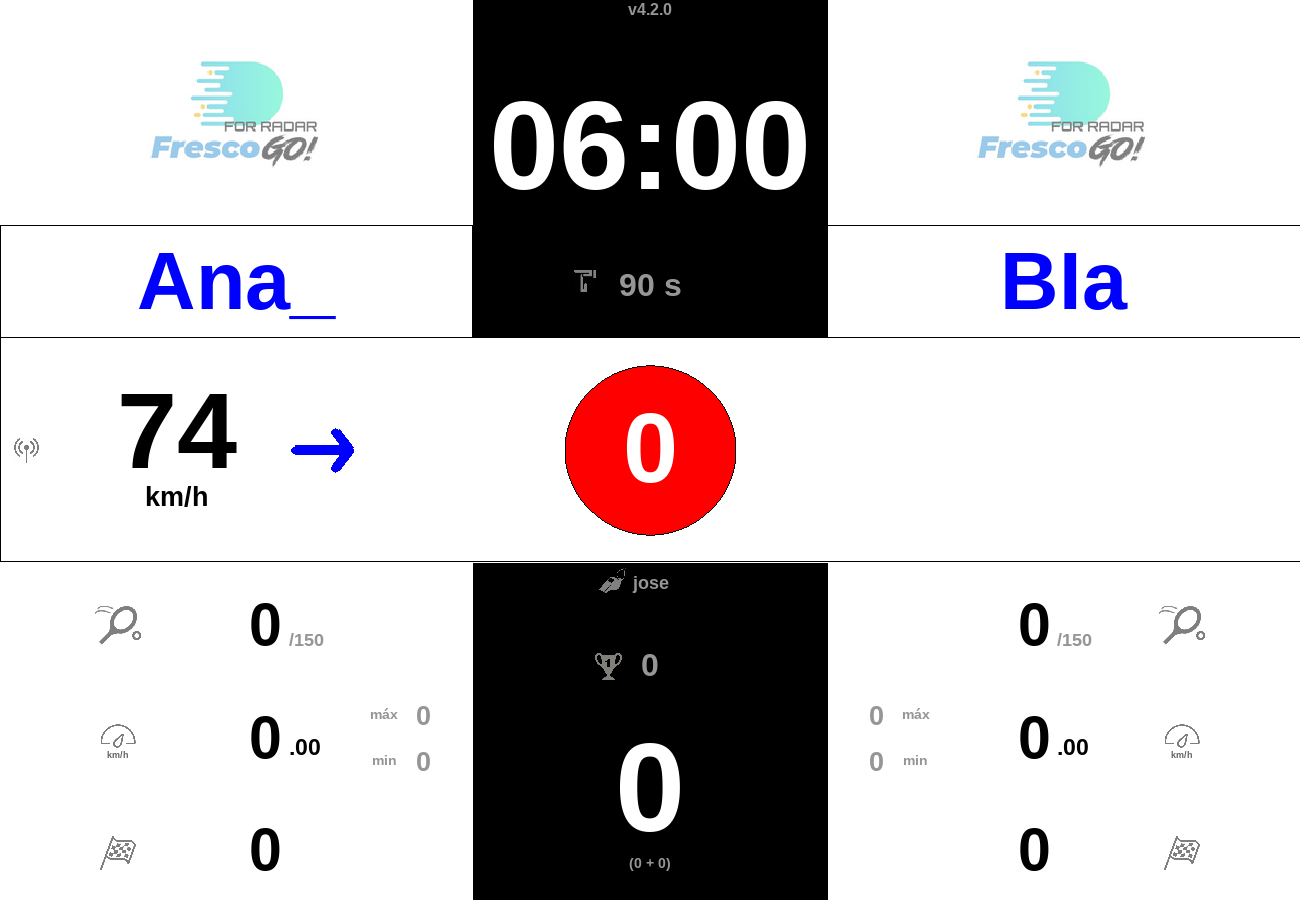
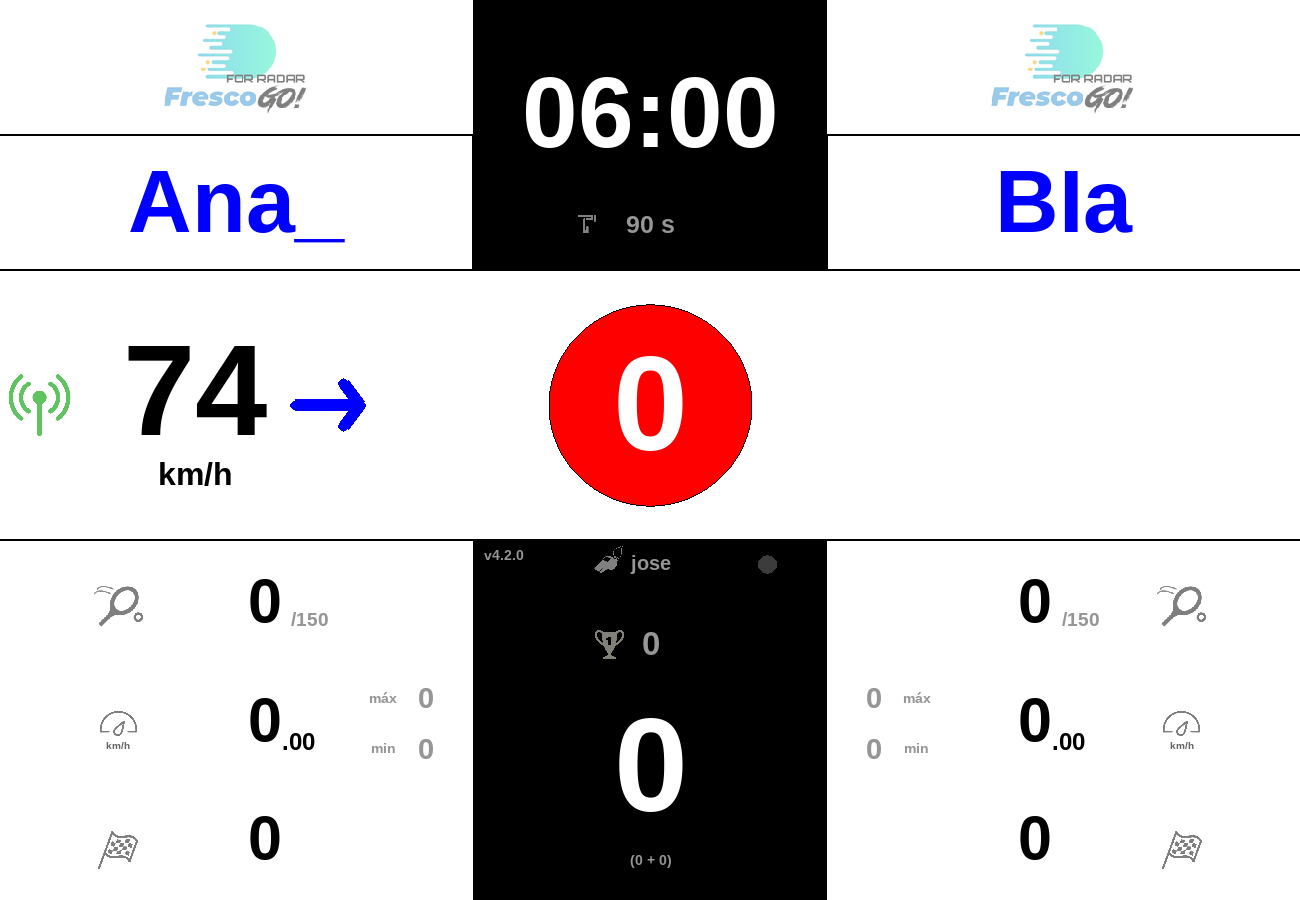
tst: the references of the screens with the panels (#47)
The oracle, the score and the flow pass with no change.

Claude-Session: https://claude.ai/code/session_011eECoitGg7fJwfZh8JDNnR

diff --git a/.claude/plans/TODO.md b/.claude/plans/TODO.md
@@ -59,7 +59,7 @@ reused (rule of 2026-11-18). The older identifiers (`A.5`, `B.11`, `C.3`,
 | #44 | The pre-game: before the first serve of a presentation or a warm-up, "PRÉ-JOGO" in the middle, and a red radar blinking at both sides with no radar; only there the names are typed, and CTRL-1/2/0, CTRL-I, CTRL-A need not be held | done on 2026-11-27 (author: "modo de configuracao", "CONF -> PRÉ-JOGO"); all the tests pass; the screens have new references | the red radar was drawn at x=0 and 1 (`loop x in [...]` gives the indices: `loop _, x in`) |  |
 | #45 | The hits by the arrows again, with no radar: a reader `Leitor.Teclado`, beside `Leitor.Radar`; a hit is emitted at the next one, with its time and the speed from `manual.distancia` (750) and `manual.maxima` (85); the last one of a sequence is kept with no speed. `:golpe` carries its time `t` | done on 2026-11-27 (author: "volte com <- e ->", "a emissao deve ser compativel com o radar", "Leitor.Radar e Leitor.Teclado", "tabela manual"); all the tests pass, with a new scenario `11-teclado` | by the session: as with the radar, the first hit is a serve only at `radar.saque` (45 km/h) or more; the arrow is on the screen at the touch (author: "aparecer a seta no golpe manual") |  |
 | #46 | The screen: only the version on top (the rest is in the report), no `inv`, no time of the falls under them, no yellow light in a warm-up | done on 2026-11-27 (author: "tire o -xxs", "tira as infos do topo"); all the tests pass, new references of the screens | |  |
-| #47 | The screen as panels: each panel is a layer of pico, placed in the window by percentages (the grid of 11 columns and 8 rows of the original); each region draws into its panel (`in <:tela> C.<panel>, do {...}`), in fractions of the panel and with the anchors of pico; the intention of the original, not its pixels | done on 2026-11-27 (author: "o ideal seria usar layers para os paineis", "nao precisa seguir a risca os valores", "sim"); compiled, screenshots checked by the session; the tests wait for the author's ok | the font and the pencil are of each layer; the final picture composes the panels first (`pico.output.draw.layers`); the falls stay after the end through a pool of the presentation (`regioes`); the lines of the grid are drawn over all, in a transparent panel (author: "desenhar por cima, apos tudo?"); the radar is a bigger icon with a transparent background, green when present, red and blinking when absent (`data/icos/radar-verde.png`, `radar-vermelho.png`, made from `radar.png`); the light of the automatic mode is always there, dark when off, also in the pre-game and the warm-up (author: "modo automatico deveria aparecer sempre"); the speed of a hit centered, with `km/h` under it at a quarter of its size; the bands 30/30/40, the top as logos 15 and names 15 (author: "30-30-40", "15/15"); the version by the referee, the clock only with the time and the rest; the pre-game and the warm-up in a half transparent gray, and the radar half transparent: for the referee more than for the public (author, 2026-11-27) |  |
+| #47 | The screen as panels: each panel is a layer of pico, placed in the window by percentages (the grid of 11 columns and 8 rows of the original); each region draws into its panel (`in <:tela> C.<panel>, do {...}`), in fractions of the panel and with the anchors of pico; the intention of the original, not its pixels | done on 2026-11-27 (author: "o ideal seria usar layers para os paineis", "nao precisa seguir a risca os valores", "sim"); the oracle, the score and the flow pass with no change; the 17 screens have new references | the font and the pencil are of each layer; the final picture composes the panels first (`pico.output.draw.layers`); the falls stay after the end through a pool of the presentation (`regioes`); the lines of the grid are drawn over all, in a transparent panel (author: "desenhar por cima, apos tudo?"); the radar is a bigger icon with a transparent background, green when present, red and blinking when absent (`data/icos/radar-verde.png`, `radar-vermelho.png`, made from `radar.png`); the light of the automatic mode is always there, dark when off, also in the pre-game and the warm-up (author: "modo automatico deveria aparecer sempre"); the speed of a hit centered, with `km/h` under it at a quarter of its size; the bands 30/30/40, the top as logos 15 and names 15 (author: "30-30-40", "15/15"); the version by the referee, the clock only with the time and the rest; the pre-game and the warm-up in a half transparent gray, and the radar half transparent: for the referee more than for the public (author, 2026-11-27) |  |
 | #22 | The operation of v4.1.0 (its keys) is written in `PORT.md`; the `README.md` of the root, which describes 5.x, was not touched | by the session, to be confirmed | done on 2026-11-20. To decide: whether `README.md` becomes the text of v4.1.0 |  |
 
 ## The expressive version (#14)
